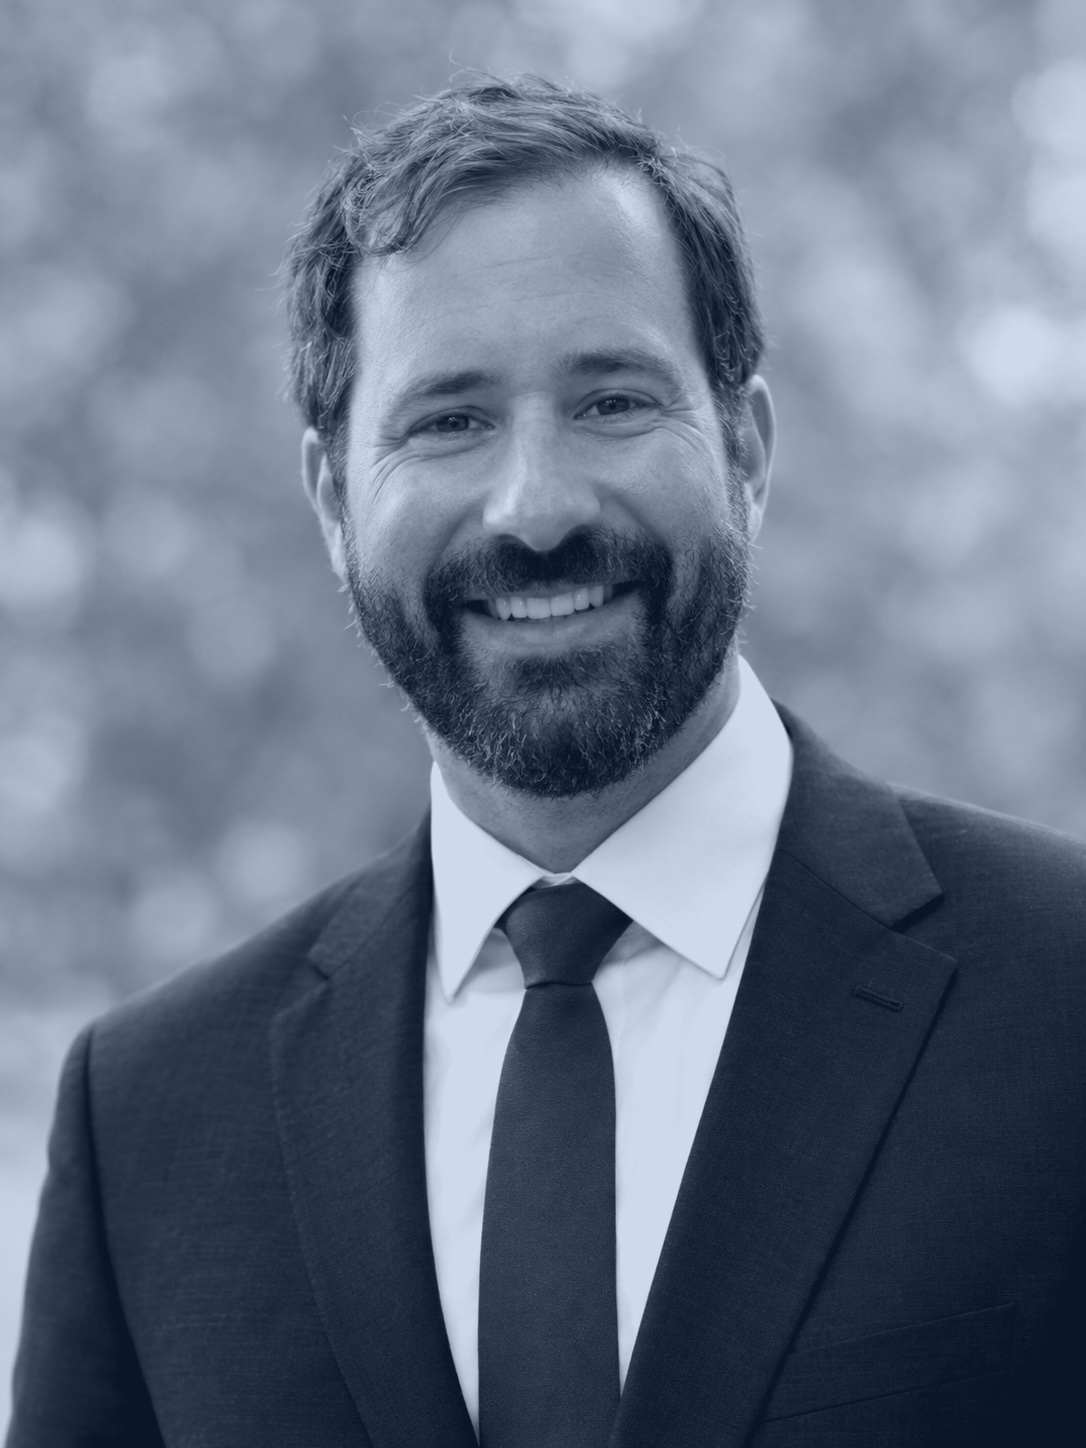
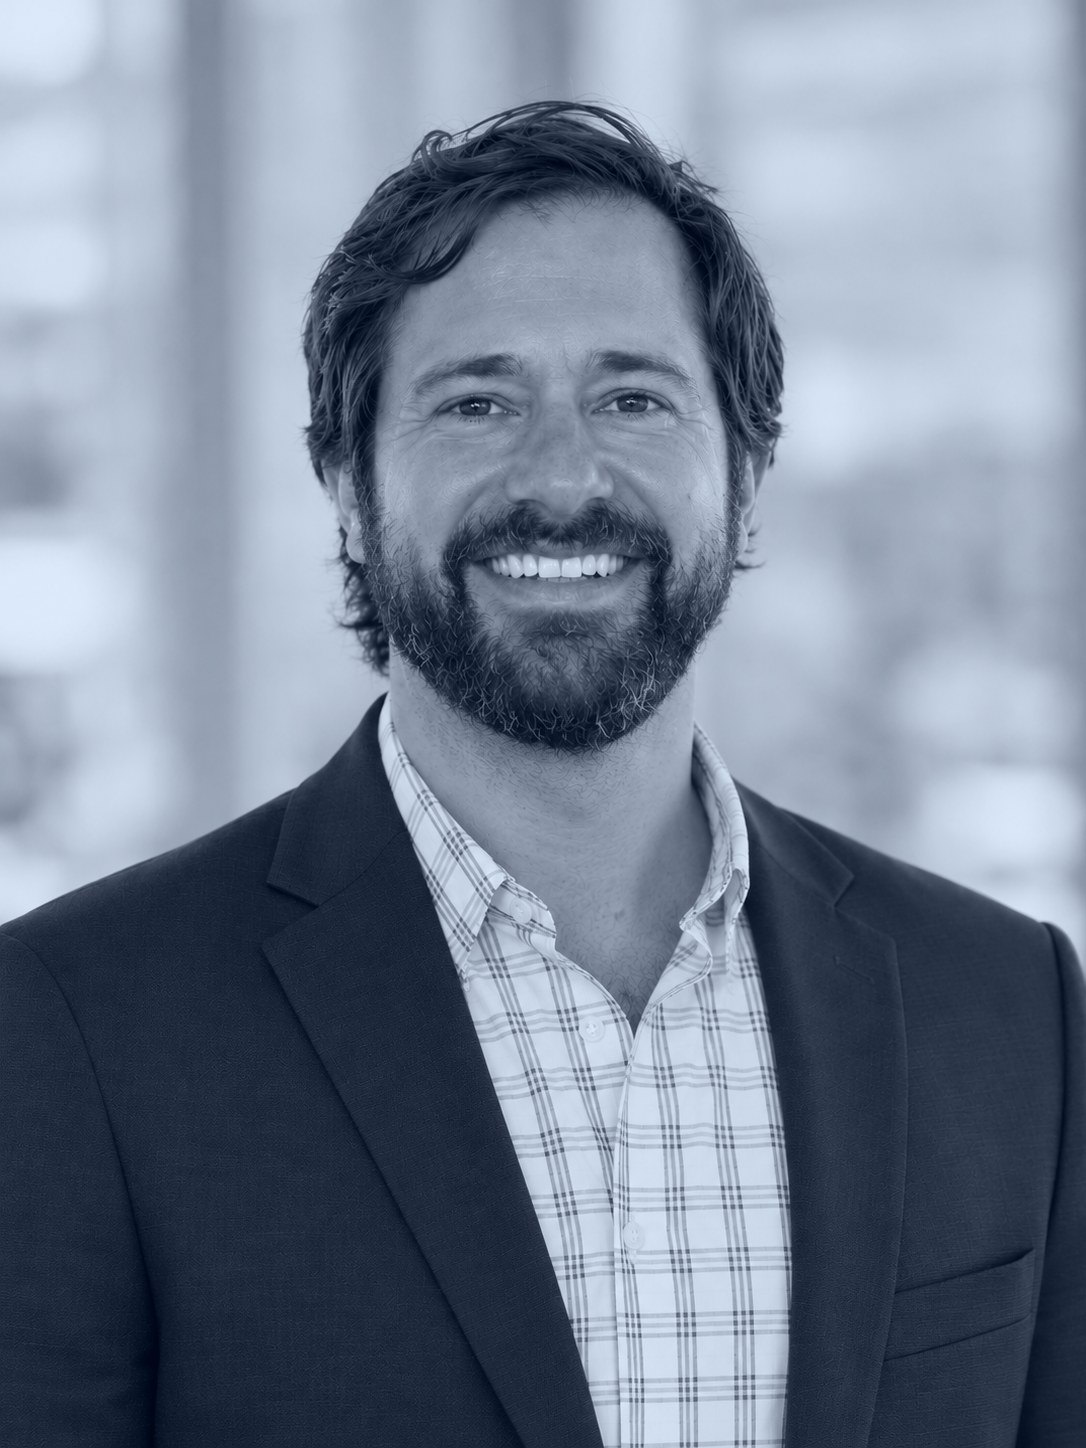
Update headshot
Claude-Session: https://claude.ai/code/session_01PNfNqroEsEnnnvxEqYXjUp

diff --git a/site/index.md b/site/index.md
@@ -6,7 +6,7 @@ description: "Jacob Davis is a data science, strategy, and analytics executive w
 person_schema: true
 
 hero_image: "assets/jake_headshot_muted.jpg"
-hero_image_alt: "Jacob Davis, smiling, in a dark suit and red tie"
+hero_image_alt: "Jacob Davis, smiling, in a navy blazer and checked shirt"
 headline: "Data science, strategy, and analytics executive. <br>I build and lead teams that focus on what's useful, not just correct."
 intro: "I'm a practitioner first: I build analytics organizations and data businesses across CRM, media measurement, martech, loyalty, and healthcare, then speak and teach about what made them work."
 primary_button: "Speaking"
